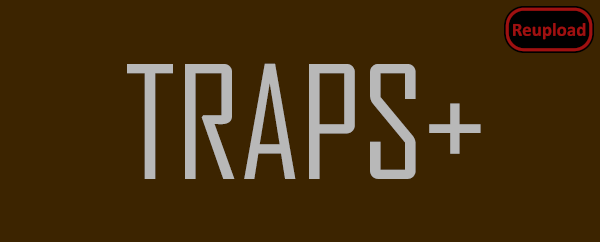
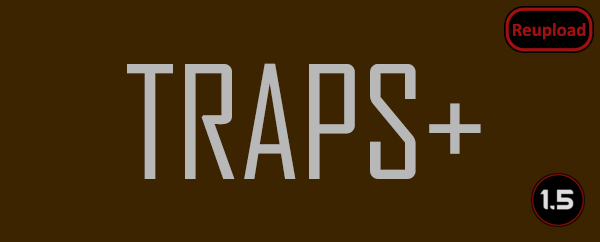
Mod updated for 1.5 and passed autotests

Changed region(s): [[0.87, 0.6942, 0.99, 0.9545]]

diff --git a/Source/TrapsPlus/Building_BodyCrusherTrap.cs b/Source/TrapsPlus/Building_BodyCrusherTrap.cs
@@ -22,7 +22,7 @@ public class Building_BodyCrusherTrap : Building_TrapRearmable
 
         if ((bool)typeof(Building_TrapRearmable)
                 .GetField("autoRearm", BindingFlags.Instance | BindingFlags.NonPublic)
-                ?.GetValue(this))
+                ?.GetValue(this)!)
         {
             Map.designationManager.AddDesignation(new Designation(this, BetaTrapDefOf.RearmTrap));
         }

diff --git a/Source/TrapsPlus/Building_BodySlicerTrap.cs b/Source/TrapsPlus/Building_BodySlicerTrap.cs
@@ -22,7 +22,7 @@ public class Building_BodySlicerTrap : Building_TrapRearmable
 
         if ((bool)typeof(Building_TrapRearmable)
                 .GetField("autoRearm", BindingFlags.Instance | BindingFlags.NonPublic)
-                ?.GetValue(this))
+                ?.GetValue(this)!)
         {
             Map.designationManager.AddDesignation(new Designation(this, BetaTrapDefOf.RearmTrap));
         }

diff --git a/Source/TrapsPlus/Building_HeatPadTrap.cs b/Source/TrapsPlus/Building_HeatPadTrap.cs
@@ -50,7 +50,7 @@ public class Building_HeatPadTrap : Building_Trap
         DamagePawn(p);
         if (Rand.Range(0, 2) == 0)
         {
-            p.TryAttachFire(Rand.Range(0.1f, 0.15f));
+            p.TryAttachFire(Rand.Range(0.1f, 0.15f), this);
         }
     }
 }

diff --git a/README.md b/README.md
@@ -34,12 +34,13 @@ If anyone would like to help me with creating better textures, please message me
 
 -  See if the the error persists if you just have this mod and its requirements active.
 -  If not, try adding your other mods until it happens again.
--  Post your error-log using https://steamcommunity.com/workshop/filedetails/?id=818773962]HugsLib and command Ctrl+F12
+-  Post your error-log using https://steamcommunity.com/workshop/filedetails/?id=818773962]HugsLib or the standalone https://steamcommunity.com/sharedfiles/filedetails/?id=2873415404]Uploader and command Ctrl+F12
 -  For best support, please use the Discord-channel for error-reporting.
 -  Do not report errors by making a discussion-thread, I get no notification of that.
 -  If you have the solution for a problem, please post it to the GitHub repository.
+-  Use https://github.com/RimSort/RimSort/releases/latest]RimSort to sort your mods
 
 
 
+https://steamcommunity.com/sharedfiles/filedetails/changelog/2042706367]![Image](https://img.shields.io/github/v/release/emipa606/TrapsPlus?label=latest%20version&style=plastic&color=9f1111&labelColor=black)
 
-https://steamcommunity.com/sharedfiles/filedetails/changelog/2042706367]Last updated 2023-02-20
